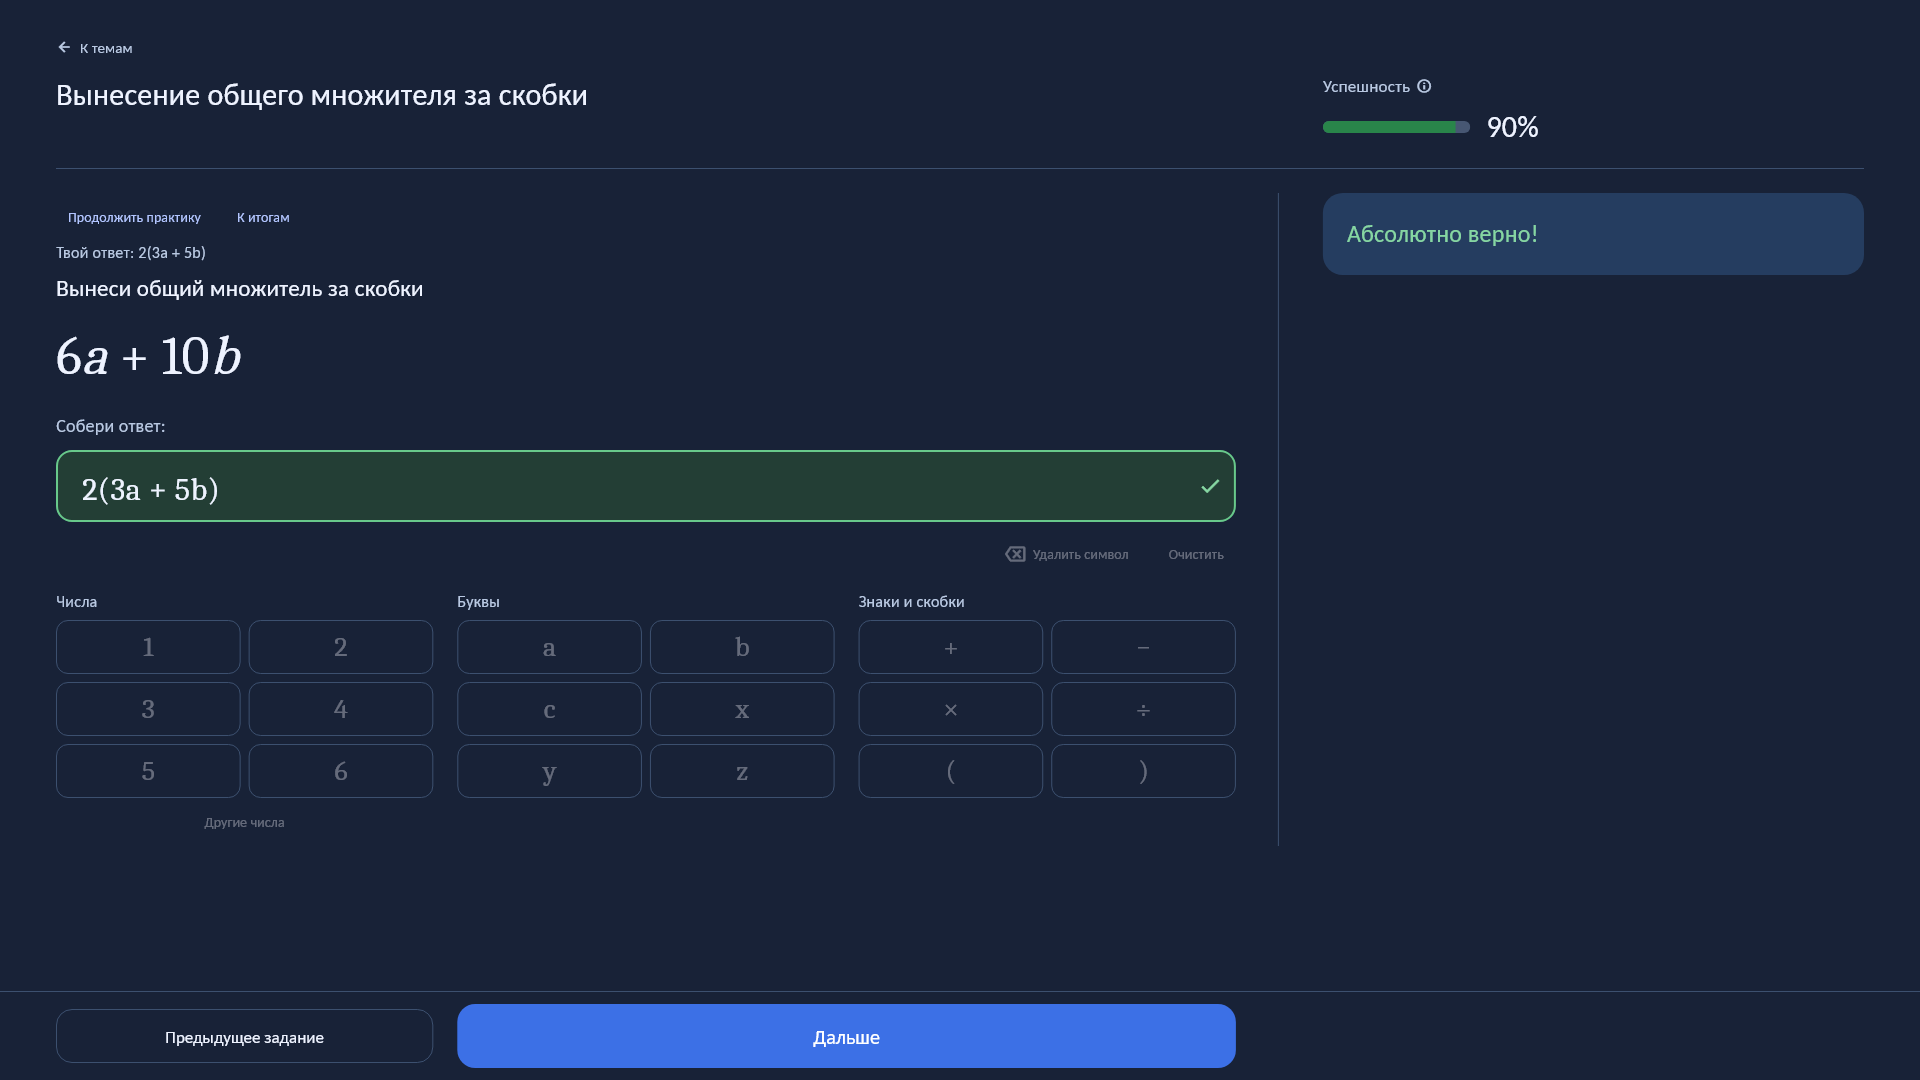
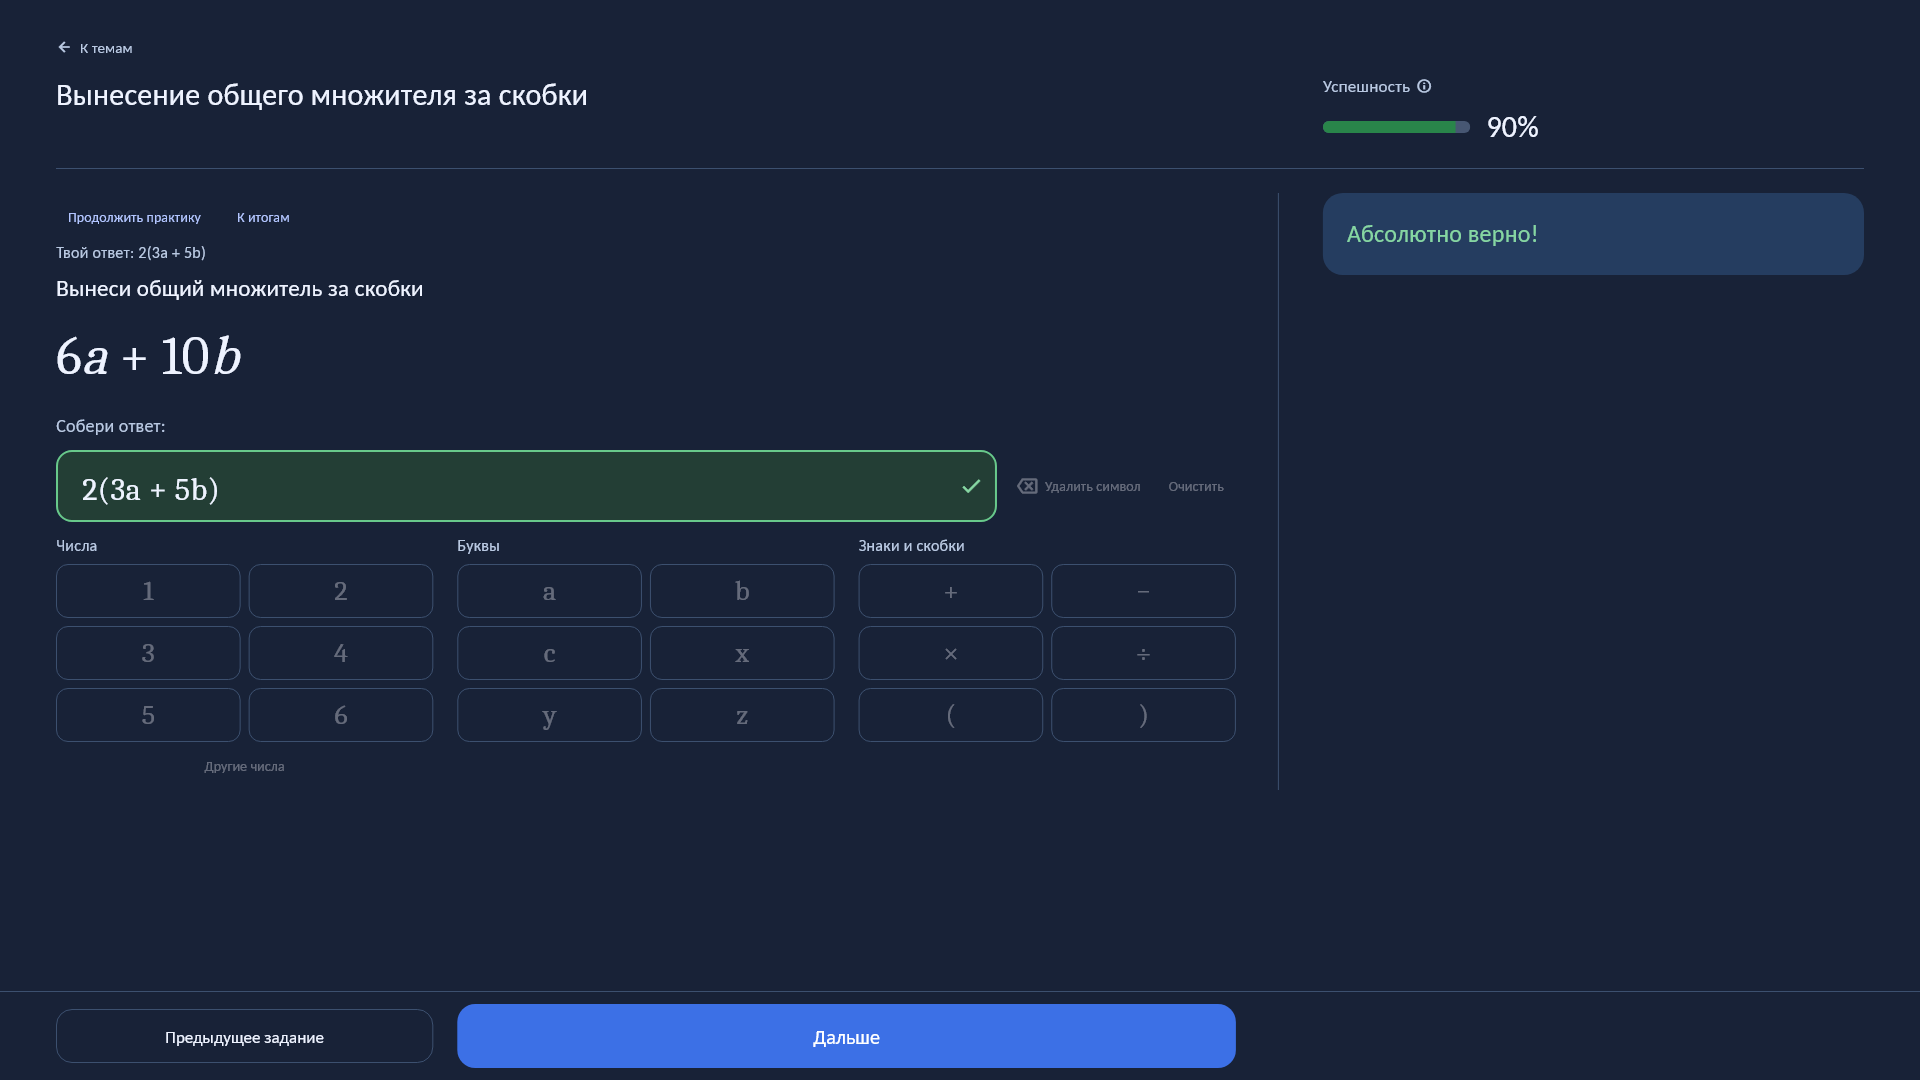
Place answer editing actions beside the input field

diff --git a/lib/bank_trainer.dart b/lib/bank_trainer.dart
@@ -251,6 +251,14 @@ class _BankTrainerState extends State<BankTrainer> {
     });
   }
 
+  void _clear() {
+    if (_checked) return;
+    setState(() {
+      entry.clear();
+      inputMessage = null;
+    });
+  }
+
   void _delete() {
     if (_checked) return;
     final selection = entry.selection;
@@ -465,86 +473,114 @@ class _BankTrainerState extends State<BankTrainer> {
             const SizedBox(height: 12),
             if (!_usesInput) _choiceCards(task, c, compact),
             if (_usesInput) ...[
-              Container(
-                height: compact ? 56 : 72,
-                decoration: BoxDecoration(
-                  color: !_checked
-                      ? c.paper
-                      : correct
-                      ? Color(c.dark ? 0xff233e35 : 0xffeaf6ee)
-                      : Color(c.dark ? 0xff452e36 : 0xfffff0ee),
-                  borderRadius: BorderRadius.circular(16),
-                  border: Border.all(
-                    width: 2,
-                    color: !_checked
-                        ? c.blue
-                        : correct
-                        ? Color(c.dark ? 0xff68c98b : 0xff28934c)
-                        : Color(c.dark ? 0xffb97e84 : 0xffcf7772),
-                  ),
-                ),
-                child: TextField(
-                  key: const ValueKey('bank-answer'),
-                  controller: entry,
-                  readOnly: _checked,
-                  autofocus: false,
-                  style: TextStyle(
-                    fontFamily: 'Caladea',
-                    fontSize: compact ? 28 : 32,
-                    color: c.ink,
-                  ),
-                  decoration: InputDecoration(
-                    border: InputBorder.none,
-                    enabledBorder: InputBorder.none,
-                    focusedBorder: InputBorder.none,
-                    contentPadding: EdgeInsets.symmetric(
-                      horizontal: compact ? 22 : 24,
-                      vertical: compact ? 6 : 14,
-                    ),
-                    suffixIcon: _checked
-                        ? Icon(
-                            correct ? Icons.check : Icons.close,
-                            color: feedbackColor,
+              LayoutBuilder(
+                builder: (context, bounds) {
+                  final textActions = bounds.maxWidth >= 600;
+                  final canEdit = !_checked && entry.text.isNotEmpty;
+                  return TextFieldTapRegion(
+                    child: Row(
+                      children: [
+                        Expanded(
+                          child: Container(
+                            height: compact ? 56 : 72,
+                            decoration: BoxDecoration(
+                              color: !_checked
+                                  ? c.paper
+                                  : correct
+                                  ? Color(c.dark ? 0xff233e35 : 0xffeaf6ee)
+                                  : Color(c.dark ? 0xff452e36 : 0xfffff0ee),
+                              borderRadius: BorderRadius.circular(16),
+                              border: Border.all(
+                                width: 2,
+                                color: !_checked
+                                    ? c.blue
+                                    : correct
+                                    ? Color(c.dark ? 0xff68c98b : 0xff28934c)
+                                    : Color(c.dark ? 0xffb97e84 : 0xffcf7772),
+                              ),
+                            ),
+                            child: TextField(
+                              key: const ValueKey('bank-answer'),
+                              controller: entry,
+                              readOnly: _checked,
+                              autofocus: false,
+                              style: TextStyle(
+                                fontFamily: 'Caladea',
+                                fontSize: compact ? 28 : 32,
+                                color: c.ink,
+                              ),
+                              decoration: InputDecoration(
+                                border: InputBorder.none,
+                                enabledBorder: InputBorder.none,
+                                focusedBorder: InputBorder.none,
+                                contentPadding: EdgeInsets.symmetric(
+                                  horizontal: compact ? 22 : 24,
+                                  vertical: compact ? 6 : 14,
+                                ),
+                                suffixIcon: _checked
+                                    ? Icon(
+                                        correct ? Icons.check : Icons.close,
+                                        color: feedbackColor,
+                                      )
+                                    : null,
+                              ),
+                              onChanged: (_) =>
+                                  setState(() => inputMessage = null),
+                              onTapOutside: (_) {
+                                if (!_checked &&
+                                    entry.text.isNotEmpty &&
+                                    !_complete) {
+                                  setState(
+                                    () => inputMessage = _unsupportedSymbol
+                                        ? 'Эта запись пока не поддерживается. Ответ не оценён.'
+                                        : 'Ты не закончил запись. Допиши ответ',
+                                  );
+                                }
+                              },
+                              onSubmitted: (_) {
+                                if (!_checked) _check();
+                              },
+                            ),
+                          ),
+                        ),
+                        const SizedBox(width: 8),
+                        if (textActions)
+                          TextButton.icon(
+                            key: const ValueKey('bank-delete'),
+                            onPressed: canEdit ? _delete : null,
+                            icon: const Icon(
+                              Icons.backspace_outlined,
+                              size: 20,
+                            ),
+                            label: const Text('Удалить символ'),
                           )
-                        : null,
-                  ),
-                  onChanged: (_) => setState(() => inputMessage = null),
-                  onTapOutside: (_) {
-                    if (!_checked && entry.text.isNotEmpty && !_complete) {
-                      setState(
-                        () => inputMessage = _unsupportedSymbol
-                            ? 'Эта запись пока не поддерживается. Ответ не оценён.'
-                            : 'Ты не закончил запись. Допиши ответ',
-                      );
-                    }
-                  },
-                  onSubmitted: (_) {
-                    if (!_checked) _check();
-                  },
-                ),
-              ),
-              const SizedBox(height: 8),
-              Wrap(
-                alignment: WrapAlignment.end,
-                spacing: 12,
-                children: [
-                  TextButton.icon(
-                    key: const ValueKey('bank-delete'),
-                    onPressed: _checked || entry.text.isEmpty ? null : _delete,
-                    icon: const Icon(Icons.backspace_outlined, size: 20),
-                    label: const Text('Удалить символ'),
-                  ),
-                  TextButton(
-                    key: const ValueKey('bank-clear'),
-                    onPressed: _checked || entry.text.isEmpty
-                        ? null
-                        : () => setState(() {
-                            entry.clear();
-                            inputMessage = null;
-                          }),
-                    child: const Text('Очистить'),
-                  ),
-                ],
+                        else
+                          IconButton(
+                            key: const ValueKey('bank-delete'),
+                            onPressed: canEdit ? _delete : null,
+                            tooltip: 'Удалить символ',
+                            icon: const Icon(
+                              Icons.backspace_outlined,
+                              size: 20,
+                            ),
+                          ),
+                        if (textActions)
+                          TextButton(
+                            key: const ValueKey('bank-clear'),
+                            onPressed: canEdit ? _clear : null,
+                            child: const Text('Очистить'),
+                          )
+                        else
+                          IconButton(
+                            key: const ValueKey('bank-clear'),
+                            onPressed: canEdit ? _clear : null,
+                            tooltip: 'Очистить',
+                            icon: const Icon(Icons.clear_all, size: 22),
+                          ),
+                      ],
+                    ),
+                  );
+                },
               ),
               const SizedBox(height: 12),
               TextFieldTapRegion(

diff --git a/tool/verify_bank_render_test.dart b/tool/verify_bank_render_test.dart
@@ -61,6 +61,8 @@ void main() {
     (const Size(1366, 768), ThemeMode.dark, 'dark-1366x768'),
     (const Size(1920, 1080), ThemeMode.light, 'light-1920x1080'),
     (const Size(1920, 1080), ThemeMode.dark, 'dark-1920x1080'),
+    (const Size(390, 844), ThemeMode.light, 'light-390x844'),
+    (const Size(390, 844), ThemeMode.dark, 'dark-390x844'),
   ]) {
     testWidgets('capture real bank $name', (tester) async {
       tester.view.physicalSize = size;
@@ -145,6 +147,8 @@ void main() {
       final viewport = Offset.zero & size;
       for (final key in [
         'bank-answer',
+        'bank-delete',
+        'bank-clear',
         'bank-key-group-Числа',
         'bank-key-group-Буквы',
         'bank-key-group-Знаки и скобки',

diff --git a/test/bank_trainer_test.dart b/test/bank_trainer_test.dart
@@ -68,6 +68,12 @@ void main() {
           await tapVisible(find.byKey(ValueKey('bank-symbol-$symbol')));
         }
         final field = find.byKey(const ValueKey('bank-answer'));
+        final fieldBounds = tester.getRect(field);
+        for (final key in ['bank-delete', 'bank-clear']) {
+          final action = tester.getRect(find.byKey(ValueKey(key)));
+          expect(action.left, greaterThanOrEqualTo(fieldBounds.right));
+          expect(action.center.dy, closeTo(fieldBounds.center.dy, .01));
+        }
         final controller = tester.widget<TextField>(field).controller!;
         expect(controller.text, '7(a+b)');
         controller.selection = const TextSelection(

diff --git a/docs/development_status.md b/docs/development_status.md
@@ -446,3 +446,10 @@
 * flutter analyze --no-pub без замечаний; все 134 теста прошли, включая редактирование при 1024×620 и 615×524 и переходы по истории. Обновление отправляется через GitHub Actions; снимки и результат публикации будут зафиксированы после проверки.
 
 * Четыре теста рендера прошли в двух темах при 1366×768/1920×1080, снимки обновлены; просмотрен светлый экран правильного ввода при 1366×768. Web-сборка с /math_trainer/ успешна. GitHub Actions 38877822215 успешно выполнил проверки и публикацию c0cacea. HTTPS-страница и main.dart.js отвечают HTTP 200, JavaScript обновился. Браузерная визуальная проверка и полная мобильная адаптация не выполнялись; прокрутка при переполнении сохраняется.
+
+
+## Редактирование справа от поля ответа — 16 октября 2026 года
+
+* Поле ввода и действия удаления/очистки перенесены в одну строку. Поле занимает оставшуюся ширину; в узкой области действия показываются значками с подписями для доступности. Убрана прежняя отдельная строка действий, клавиатура символов поднята. Область редактирования объединена TextFieldTapRegion для сохранения фокуса. Правила проверки, история и блокировка готовых ответов сохранены. Проверки и публикация выполняются.
+
+* Анализ без замечаний, полный набор 134 тестов прошёл. В существующих сценариях редактирования при 1024×620 и 615×524 проверено выравнивание центров поля и действий в одной строке. Все 6 тестов рендера прошли в двух темах при 1366×768, 1920×1080 и 390×844; просмотрены светлые снимки поля и действий при 1366×768 и 390×844. Видимость поля, действий и символьных групп проверена тестом. Это снимки виджетов, браузерная проверка не выполнялась. Обновление отправляется на публикацию.

diff --git a/docs/design_spec.md b/docs/design_spec.md
@@ -178,3 +178,8 @@ CSS light-dark задаёт светлую и тёмную версии. HTML в
 ## Удаление служебных подписей задания — 16 октября 2026 года
 
 По просьбе владельца на реальном экране задания, включая просмотр истории, скрыты верхняя подпись «Практика», название блока («1 — Сложение» и подобные) и нижний номер задания. Отступы удалённых строк убраны. Название темы, условие, формула, успешность и действия сохранены. Другие экраны сохраняют свои заголовки. При переполнении прокрутка остаётся доступной.
+
+
+## Поле ответа и редактирование в одной строке — 16 октября 2026 года
+
+По поручению владельца поле самостоятельного ответа сужено, «Удалить символ» и «Очистить» стоят справа от него в той же строке с выравниванием по центру. При ширине области менее 600px используются компактные кнопки-значки с доступными подписями/подсказками. Отдельная строка редактирования и промежуток перед ней удалены; символьная клавиатура поднята выше. Высота поля, шрифты и блокировка проверенного ответа сохранены.
